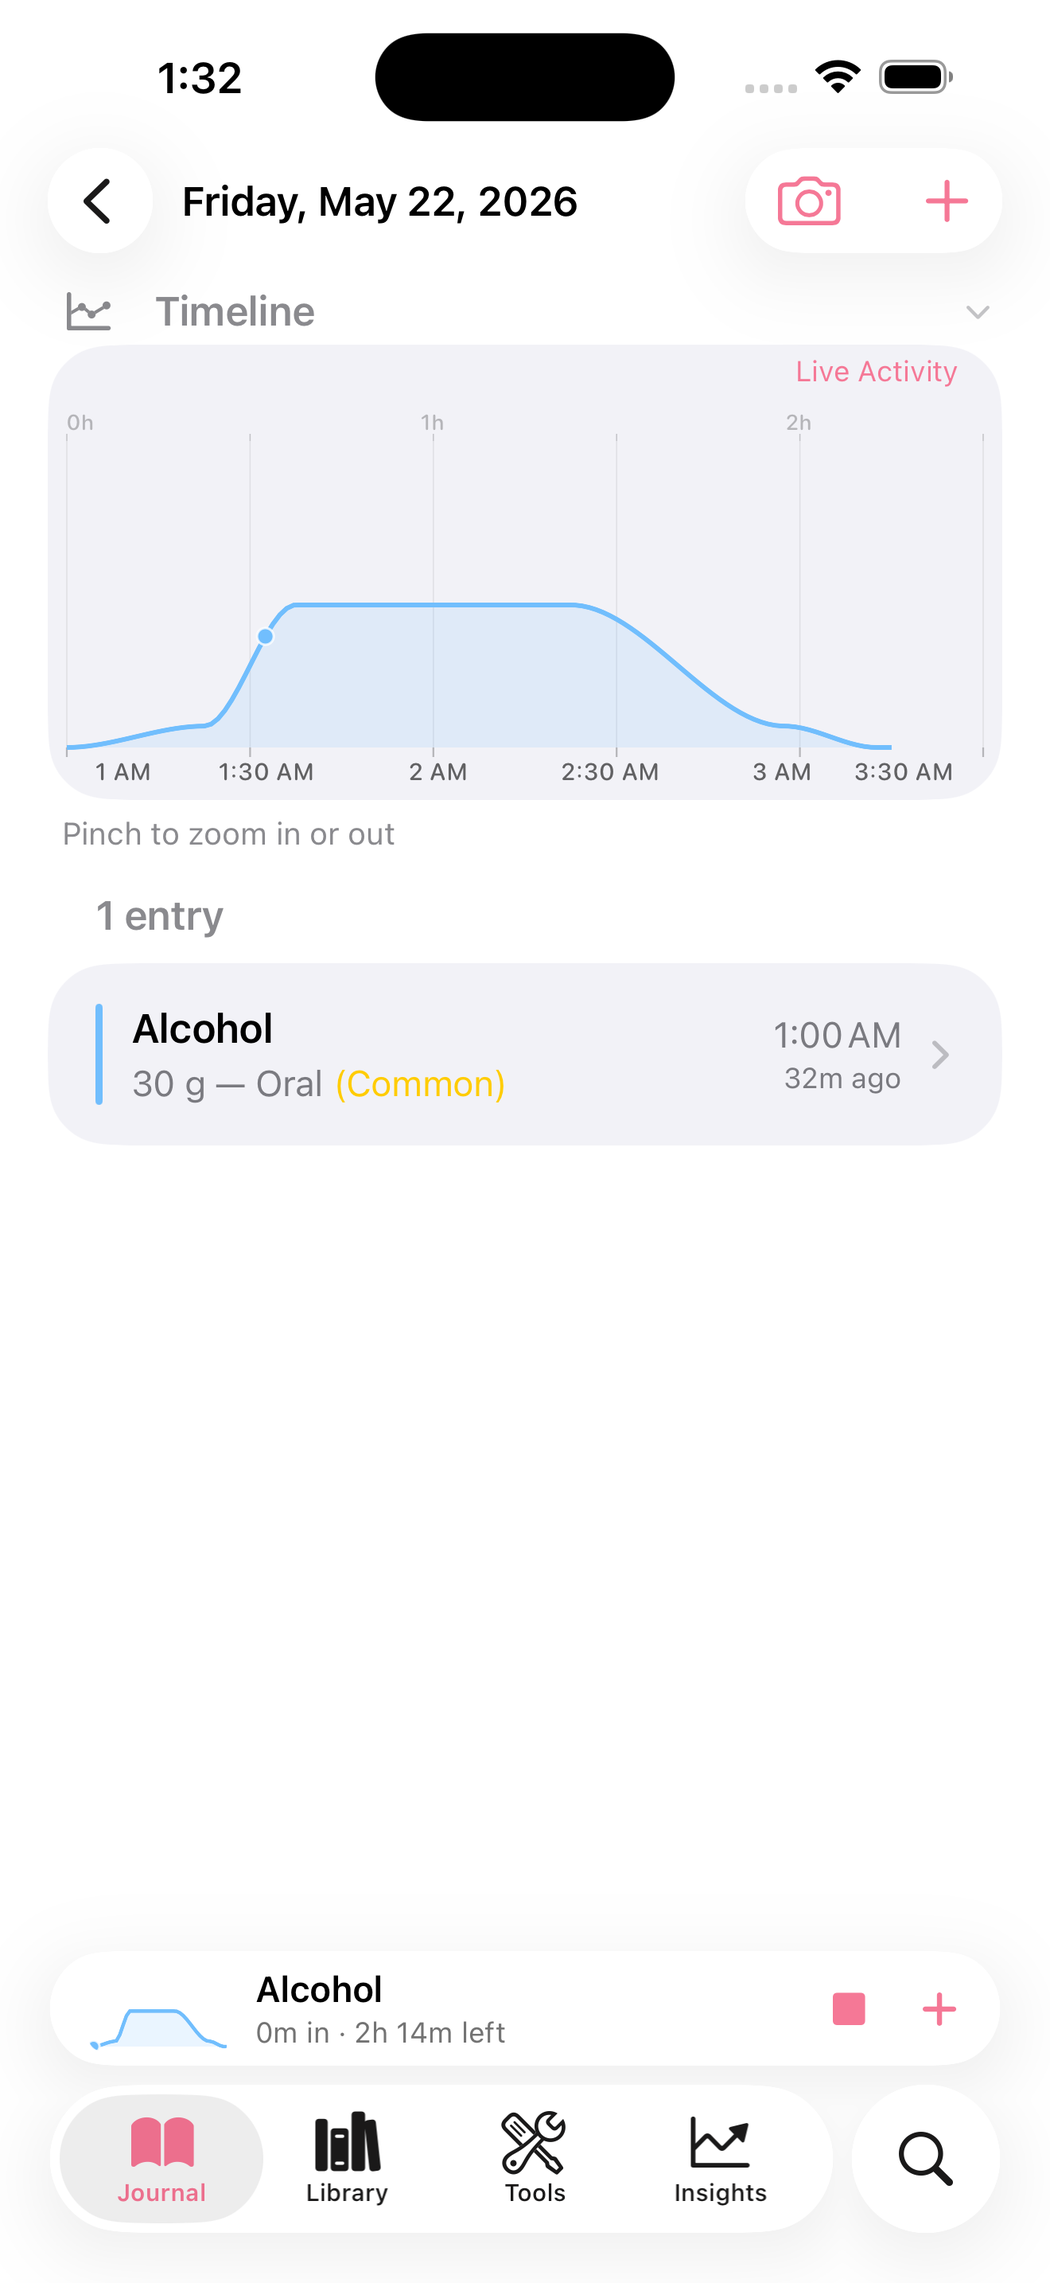
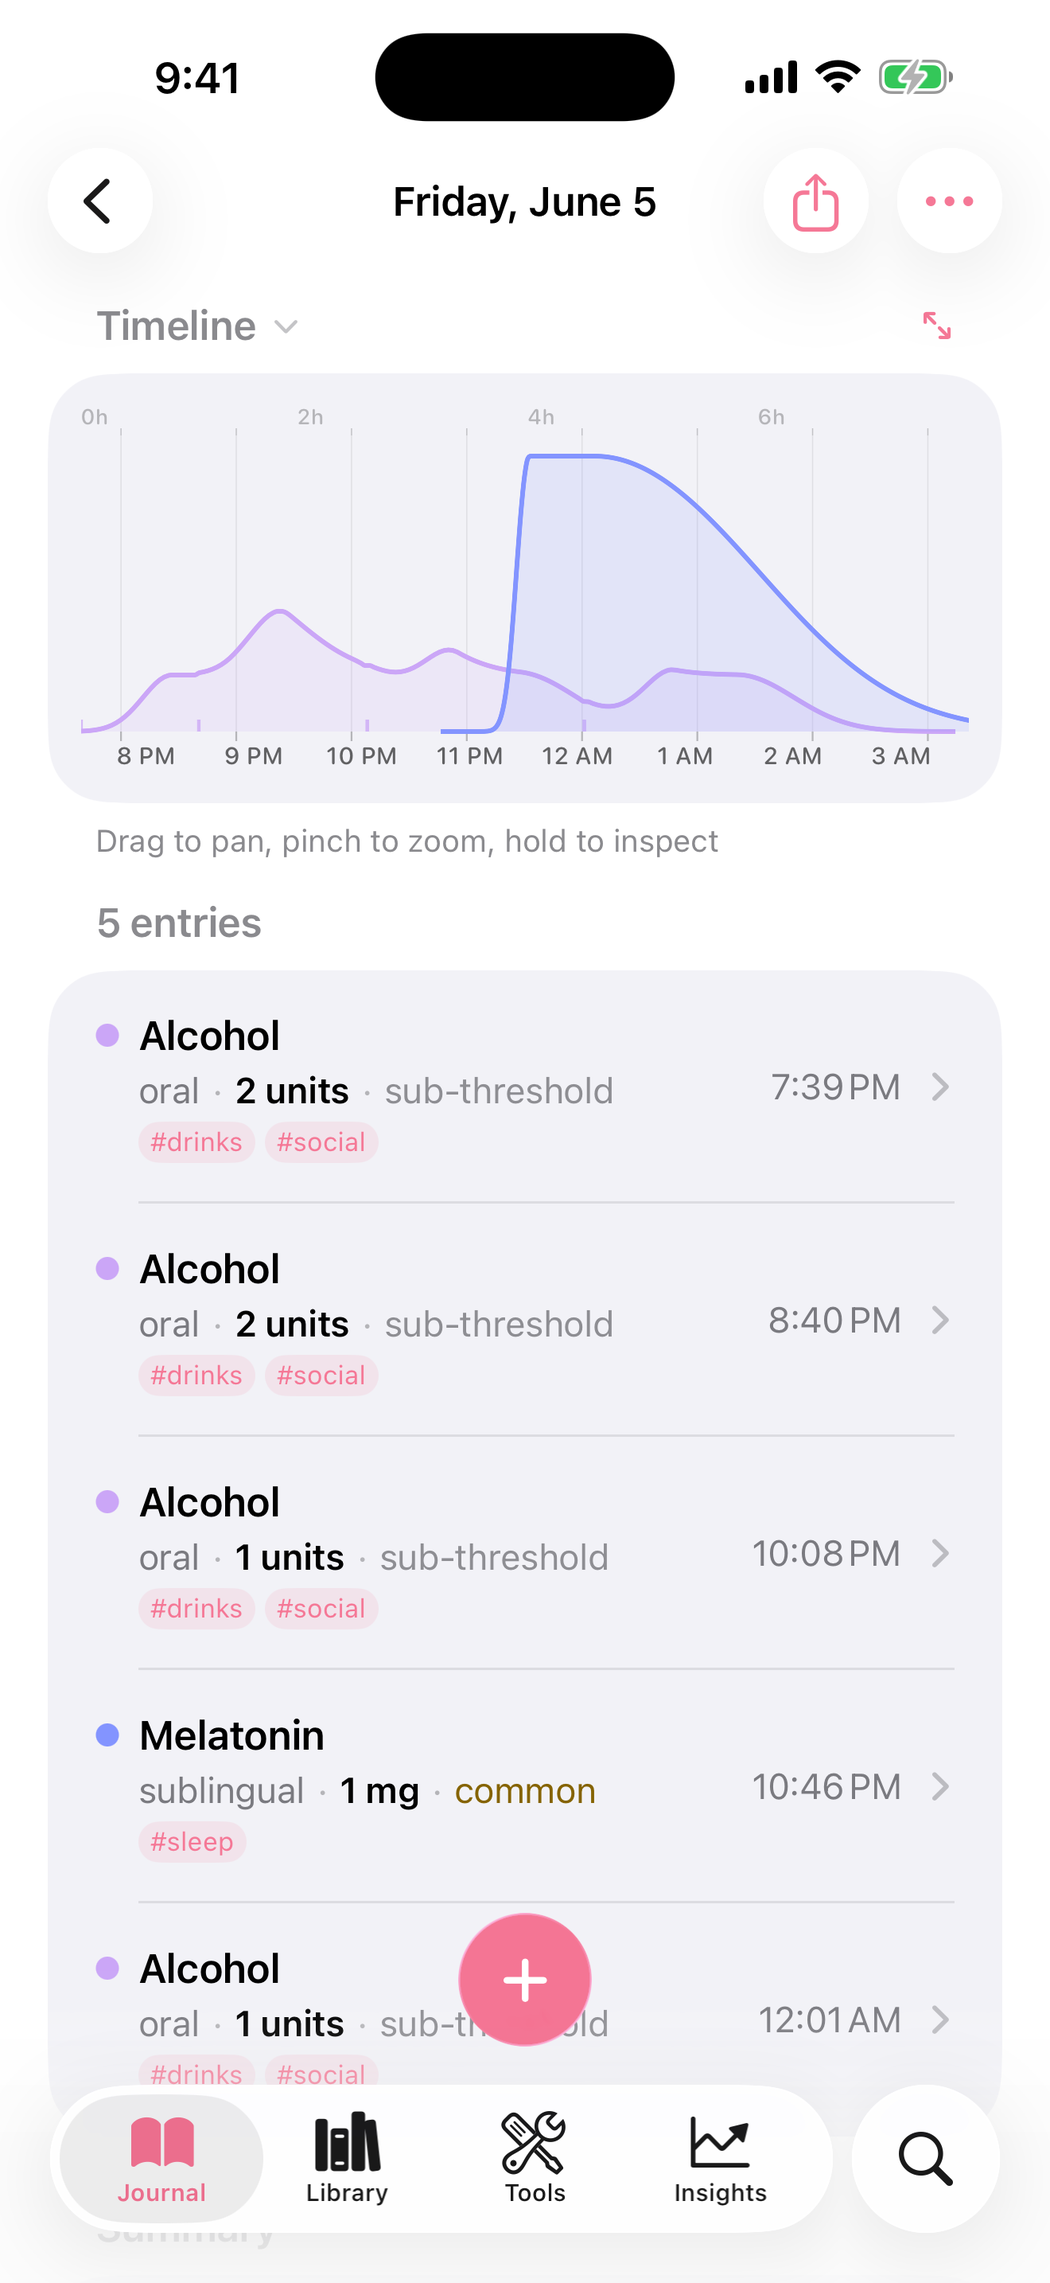
docs(readme): refresh screenshots with realistic everyday demo data
Showcase dataset is now coffee + a small supplement routine + light
weekend drinking/cannabis and two one-off events, with fewer entries
per day so the journal cards and PK curves read cleanly.

diff --git a/Piru/Utilities/DemoData.swift b/Piru/Utilities/DemoData.swift
@@ -24,16 +24,15 @@ import SwiftData
 
         // MARK: - Showcase Data (~500 entries)
 
-        /// Inserts a realistic 120-day dose history for app showcasing.
+        /// Inserts a realistic 90-day dose history for app showcasing.
         ///
-        /// Models the kind of journal Piru is actually used for in the wild: a
-        /// nootropic stack (Pregabalin nightly, Memantine for stimulant tolerance,
-        /// Kratom across the day) with weekday stimulant rotation (2-FMA,
-        /// Amphetamine, occasional 4F-MPH) and infrequent recreational doses
-        /// (3-MMC weekends, Bromazepam PRN, the occasional dissociative session).
-        /// Patterns and dose ranges are derived from a real journal export; names
-        /// are kept as-is so timeline / interaction / half-life surfaces all
-        /// exercise the merged DB.
+        /// Models an everyday journal: morning coffee with the occasional
+        /// L-Theanine, a small supplement routine (Vitamin D3, Magnesium,
+        /// Creatine on gym days), melatonin some nights, ibuprofen as needed —
+        /// plus light weekend drinking, a couple of cannabis evenings a week,
+        /// and two one-off events (an MDMA club night, a mushroom afternoon).
+        /// Kept to a few entries per day so the journal cards and PK curves
+        /// read cleanly in screenshots.
         ///
         /// Only runs when fewer than 50 entries exist; clears existing data first.
         @MainActor
@@ -47,10 +46,10 @@ import SwiftData
             try? context.delete(model: FavoriteSubstance.self)
             try? context.delete(model: DailyDoseItem.self)
 
-            var rng = SeededRNG(seed: 20_260_315)
+            var rng = SeededRNG(seed: 20_260_611)
             let cal = Calendar.current
             let today = cal.startOfDay(for: Date())
-            let totalDays = 120
+            let totalDays = 90
 
             func ts(_ daysAgo: Int, _ hour: Double, variance: Double = 20, weekendShift: Bool = false) -> Date {
                 let dayStart = today.addingTimeInterval(-Double(daysAgo) * 86_400)
@@ -68,140 +67,176 @@ import SwiftData
             }
 
             var entries: [DoseEntry] = []
-            entries.reserveCapacity(700)
+            entries.reserveCapacity(500)
+
+            // One-off events land on specific past Saturdays so the recent
+            // week stays tidy for the journal screenshot.
+            var saturdaysAgo: [Int] = []
+            for day in 0 ..< totalDays where cal.component(.weekday, from: today.addingTimeInterval(-Double(day) * 86_400)) == 7 {
+                saturdaysAgo.append(day)
+            }
+            let clubNight = saturdaysAgo.count > 5 ? saturdaysAgo[5] : 38
+            let mushroomDay = saturdaysAgo.count > 9 ? saturdaysAgo[9] : 66
 
             for day in (0 ..< totalDays).reversed() {
                 let dayStart = today.addingTimeInterval(-Double(day) * 86_400)
+                let weekday = cal.component(.weekday, from: dayStart)
                 let isWeekend = cal.isDateInWeekend(dayStart)
+                let isFridayOrSaturday = weekday == 6 || weekday == 7
+                let isGymDay = weekday == 2 || weekday == 4 || weekday == 6
 
-                // ── Nightly anxiolytic ──────────────────────────
+                // ── Coffee ──────────────────────────────────────
 
-                // Pregabalin 200mg oral — evening, ~92% adherence
-                if takes(0.92) {
+                if takes(0.95) {
                     entries.append(DoseEntry(
-                        substance: "Pregabalin",
-                        amount: jitterAmount(200, plusOrMinus: 25),
+                        substance: "Caffeine",
+                        amount: (jitterAmount(110, plusOrMinus: 30) / 5).rounded() * 5,
                         unit: "mg", route: .oral,
-                        timestamp: ts(day, 22.0, variance: 30),
-                        tags: ["nightly", "anxiolytic"],
+                        timestamp: ts(day, 8.0, variance: 25, weekendShift: true),
+                        notes: [nil, nil, nil, "Flat white"].randomElement(using: &rng)!,
+                        tags: ["coffee", "morning"],
                     ))
-                }
-
-                // ── Tolerance management ────────────────────────
-
-                // Memantine 20mg oral — morning, ~75% adherence (skipped some weekends)
-                if takes(isWeekend ? 0.55 : 0.85) {
-                    entries.append(DoseEntry(
-                        substance: "Memantine",
-                        amount: takes(0.7) ? 20 : 10,
-                        unit: "mg", route: .oral,
-                        timestamp: ts(day, 9.0, weekendShift: true),
-                        tags: ["nootropic", "tolerance"],
-                    ))
-                }
-
-                // ── Daily Kratom — 1–3x/day with redoses ───────
-
-                let kratomBouts: Int = {
-                    if takes(0.85) {
-                        if takes(0.4) { return 3 }
-                        if takes(0.6) { return 2 }
-                        return 1
-                    }
-                    return 0
-                }()
-                for bout in 0 ..< kratomBouts {
-                    let hour = 10.5 + Double(bout) * 4.5 + Double.random(in: -0.5 ... 0.5, using: &rng)
-                    entries.append(DoseEntry(
-                        substance: "Kratom",
-                        amount: jitterAmount(3.0, plusOrMinus: 0.7),
-                        unit: "g", route: .oral,
-                        timestamp: ts(day, hour),
-                        notes: bout == 0
-                            ? [nil, nil, nil, "Empty stomach"].randomElement(using: &rng)!
-                            : [nil, nil, "Top-up", "Redose"].randomElement(using: &rng)!,
-                        tags: ["kratom", bout == 0 ? "primary" : "redose"],
-                    ))
-                }
-
-                // ── Stimulant rotation (weekday-leaning) ────────
-
-                // 2-FMA 60mg oral — preferred functional stimulant
-                if !isWeekend, takes(0.55) {
-                    entries.append(DoseEntry(
-                        substance: "2-FMA",
-                        amount: jitterAmount(60, plusOrMinus: 15),
-                        unit: "mg", route: .oral,
-                        timestamp: ts(day, 11.0, variance: 25),
-                        tags: ["stimulant"],
-                    ))
-                    // Mid-afternoon redose, sometimes
-                    if takes(0.4) {
+                    // L-Theanine alongside, sometimes
+                    if takes(0.35) {
                         entries.append(DoseEntry(
-                            substance: "2-FMA",
-                            amount: jitterAmount(30, plusOrMinus: 10),
-                            unit: "mg", route: .oral,
-                            timestamp: ts(day, 15.5, variance: 25),
-                            notes: "Redose",
-                            tags: ["stimulant", "redose"],
+                            substance: "L-Theanine",
+                            amount: 200, unit: "mg", route: .oral,
+                            timestamp: ts(day, 8.2, variance: 25, weekendShift: true),
+                            tags: ["coffee", "supplement"],
                         ))
                     }
-                } else if takes(0.30) {
-                    // Amphetamine alternative on days without 2-FMA
+                    // Afternoon cup on weekdays, mostly
+                    if takes(isWeekend ? 0.25 : 0.55) {
+                        entries.append(DoseEntry(
+                            substance: "Caffeine",
+                            amount: (jitterAmount(70, plusOrMinus: 15) / 5).rounded() * 5,
+                            unit: "mg", route: .oral,
+                            timestamp: ts(day, 13.5, variance: 40),
+                            tags: ["coffee"],
+                        ))
+                    }
+                }
+
+                // ── Supplements ─────────────────────────────────
+
+                if takes(0.85) {
                     entries.append(DoseEntry(
-                        substance: "Amphetamine",
-                        amount: jitterAmount(25, plusOrMinus: 5),
+                        substance: "Vitamin D3",
+                        amount: 4_000, unit: "IU", route: .oral,
+                        timestamp: ts(day, 8.5, variance: 30, weekendShift: true),
+                        tags: ["supplement"],
+                    ))
+                }
+                if isGymDay, takes(0.7) {
+                    entries.append(DoseEntry(
+                        substance: "Creatine",
+                        amount: 5, unit: "g", route: .oral,
+                        timestamp: ts(day, 17.0, variance: 45),
+                        notes: [nil, nil, "Post-workout"].randomElement(using: &rng)!,
+                        tags: ["gym"],
+                    ))
+                }
+                if takes(0.8) {
+                    entries.append(DoseEntry(
+                        substance: "Magnesium",
+                        amount: jitterAmount(350, plusOrMinus: 50).rounded(),
                         unit: "mg", route: .oral,
-                        timestamp: ts(day, 11.5, variance: 30),
-                        tags: ["stimulant"],
+                        timestamp: ts(day, 22.0, variance: 30),
+                        tags: ["supplement", "sleep"],
                     ))
                 }
 
-                // 4F-MPH — occasional sublingual, ~12% of days
-                if takes(0.12) {
+                // Melatonin — some nights
+                if takes(0.22) {
                     entries.append(DoseEntry(
-                        substance: "4F-MPH",
-                        amount: jitterAmount(15, plusOrMinus: 5),
+                        substance: "Melatonin",
+                        amount: takes(0.6) ? 0.5 : 1,
                         unit: "mg", route: .sublingual,
-                        timestamp: ts(day, 13.0, variance: 60),
-                        tags: ["stimulant", "as-needed"],
+                        timestamp: ts(day, 23.0, variance: 25),
+                        tags: ["sleep"],
                     ))
                 }
 
-                // ── PRN anxiolytic / dissociative / recreational ─
-
-                // Bromazepam 3mg sublingual — anxiolytic PRN, ~8% of days
-                if takes(0.08) {
+                // Ibuprofen — as needed
+                if takes(0.07) {
                     entries.append(DoseEntry(
-                        substance: "Bromazepam",
-                        amount: 3, unit: "mg", route: .sublingual,
-                        timestamp: ts(day, Double.random(in: 19 ... 22, using: &rng)),
-                        notes: [nil, nil, "Anxiety", "Wind-down"].randomElement(using: &rng)!,
-                        tags: ["benzo", "as-needed"],
+                        substance: "Ibuprofen",
+                        amount: 400, unit: "mg", route: .oral,
+                        timestamp: ts(day, Double.random(in: 10 ... 20, using: &rng)),
+                        notes: ["Headache", "Headache", "Sore from the gym"].randomElement(using: &rng)!,
+                        tags: ["as-needed"],
                     ))
                 }
 
-                // 3-MMC 100mg — recreational, weekend leaning, ~10% of weekends
-                if isWeekend, takes(0.15) {
+                // ── Weekend drinks ──────────────────────────────
+
+                if day == clubNight {
+                    // One big night out, ~5 Saturdays back: MDMA + a couple of drinks.
                     entries.append(DoseEntry(
-                        substance: "3-MMC",
-                        amount: jitterAmount(100, plusOrMinus: 25),
-                        unit: "mg",
-                        route: takes(0.4) ? .insufflation : .oral,
-                        timestamp: ts(day, Double.random(in: 20 ... 23, using: &rng)),
-                        tags: ["recreational", "weekend"],
+                        substance: "MDMA",
+                        amount: 120, unit: "mg", route: .oral,
+                        timestamp: ts(day, 22.5, variance: 15),
+                        notes: "Club night",
+                        tags: ["party"],
+                    ))
+                    entries.append(DoseEntry(
+                        substance: "MDMA",
+                        amount: 60, unit: "mg", route: .oral,
+                        timestamp: ts(day, 24.5, variance: 15),
+                        notes: "Redose",
+                        tags: ["party"],
+                    ))
+                    entries.append(DoseEntry(
+                        substance: "Alcohol",
+                        amount: 2, unit: "units", route: .oral,
+                        timestamp: ts(day, 21.0, variance: 20),
+                        tags: ["party"],
+                    ))
+                } else if isFridayOrSaturday, takes(0.65) {
+                    // A normal evening out or in: 2–4 drinks over a few hours.
+                    let rounds = takes(0.5) ? 2 : (takes(0.5) ? 1 : 3)
+                    for round in 0 ... rounds {
+                        entries.append(DoseEntry(
+                            substance: "Alcohol",
+                            amount: takes(0.7) ? 1 : 2,
+                            unit: "units", route: .oral,
+                            timestamp: ts(day, 19.5 + Double(round) * 1.4, variance: 25),
+                            notes: round == 0 ? [nil, nil, "Drinks with friends"].randomElement(using: &rng)! : nil,
+                            tags: ["drinks", "social"],
+                        ))
+                    }
+                } else if takes(0.08) {
+                    // The odd weekday beer.
+                    entries.append(DoseEntry(
+                        substance: "Alcohol",
+                        amount: 1, unit: "units", route: .oral,
+                        timestamp: ts(day, 20.5, variance: 40),
+                        tags: ["drinks"],
                     ))
                 }
 
-                // 2-Fluorodeschloroketamine — occasional, ~3% of days
-                if takes(0.03) {
+                // ── Cannabis — a couple of evenings a week ──────
+
+                if day != clubNight, day != mushroomDay, takes(isWeekend ? 0.35 : 0.22) {
                     entries.append(DoseEntry(
-                        substance: "2-Fluorodeschloroketamine",
-                        amount: jitterAmount(40, plusOrMinus: 10),
-                        unit: "mg",
-                        route: .insufflation,
-                        timestamp: ts(day, Double.random(in: 20 ... 23, using: &rng)),
-                        tags: ["dissociative", "as-needed"],
+                        substance: "Cannabis",
+                        amount: jitterAmount(7, plusOrMinus: 3).rounded(),
+                        unit: "mg", route: .inhalation,
+                        timestamp: ts(day, 21.3, variance: 45),
+                        notes: [nil, nil, nil, "Movie night"].randomElement(using: &rng)!,
+                        tags: ["chill"],
+                    ))
+                }
+
+                // ── Mushroom afternoon, ~9 Saturdays back ───────
+
+                if day == mushroomDay {
+                    entries.append(DoseEntry(
+                        substance: "Psilocybin mushrooms",
+                        amount: 1.8, unit: "g", route: .oral,
+                        timestamp: ts(day, 14.0, variance: 20),
+                        notes: "Forest walk",
+                        tags: ["trip"],
                     ))
                 }
             }
@@ -213,15 +248,17 @@ import SwiftData
             // ── Substance Colors (preset palette) ──
 
             let colors: [(String, String)] = [
-                ("pregabalin", "5C7CFA"), // Iris — blue
-                ("memantine", "F5A623"), // Mustard — amber
-                ("kratom", "8FAE5C"), // Olive — sage
-                ("2-fma", "21b26a"), // Green
-                ("amphetamine", "2ca2f5"), // Azure — bright blue
-                ("4f-mph", "00b3a2"), // Cyan — teal
-                ("bromazepam", "8394ff"), // Lavender
-                ("3-mmc", "CBA6F7"), // Violet — purple
-                ("2-fluorodeschloroketamine", "f17395"), // Rose
+                ("caffeine", "F5A623"), // Mustard — amber
+                ("l-theanine", "00b3a2"), // Cyan — teal
+                ("vitamin d3", "F9E2AF"), // Honey — soft yellow
+                ("creatine", "2ca2f5"), // Azure — bright blue
+                ("magnesium", "A6E3A1"), // Sage — green
+                ("melatonin", "8394ff"), // Lavender
+                ("ibuprofen", "f17395"), // Rose
+                ("alcohol", "CBA6F7"), // Violet — purple
+                ("cannabis", "8FAE5C"), // Olive — sage
+                ("mdma", "FF6B9D"), // Pink
+                ("psilocybin mushrooms", "5C7CFA"), // Iris — blue
             ]
             for (name, hex) in colors {
                 context.insert(SubstanceColor(substance: name, hexColor: hex))
@@ -229,15 +266,15 @@ import SwiftData
 
             // ── Favorites ──
 
-            for name in ["Pregabalin", "Kratom", "Memantine", "2-FMA"] {
+            for name in ["Caffeine", "Magnesium", "Vitamin D3", "Melatonin"] {
                 context.insert(FavoriteSubstance(substance: name))
             }
 
-            // ── Daily medication schedule (the regular ones) ──
+            // ── Daily supplement routine ──
 
             let schedule: [(String, Double, String, Int)] = [
-                ("Memantine", 20, "mg", 0),
-                ("Pregabalin", 200, "mg", 1),
+                ("Vitamin D3", 4_000, "IU", 0),
+                ("Magnesium", 350, "mg", 1),
             ]
             for (name, amount, unit, order) in schedule {
                 context.insert(DailyDoseItem(substance: name, amount: amount, unit: unit, sortOrder: order))

diff --git a/README.md b/README.md
@@ -5,8 +5,8 @@ dose; overlays pharmacokinetic curves so you can see what's still active;
 warns about drug interactions before you stack them.
 
 <p align="center">
-  <img src=".github/screenshot-journal.png" alt="Piru Journal — days view grouped by date with category tags" width="300">
-  <img src=".github/screenshot-day.png" alt="Piru day detail with a pharmacokinetic timeline graph for an Alcohol dose" width="300">
+  <img src=".github/screenshot-journal.png" alt="Piru Journal — sessions grouped by day with pharmacokinetic timeline previews and tag filters" width="300">
+  <img src=".github/screenshot-day.png" alt="Piru session detail — a Friday evening of alcohol doses and a melatonin dose overlaid on a pharmacokinetic timeline" width="300">
 </p>
 
 Built primarily for harm reduction: medication adherence, recreational
